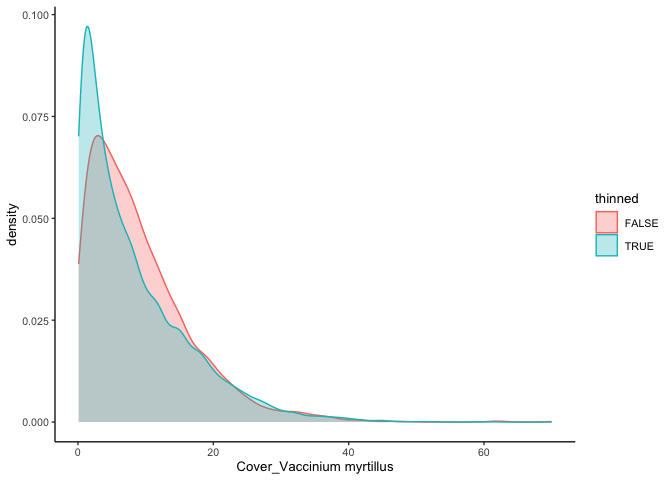
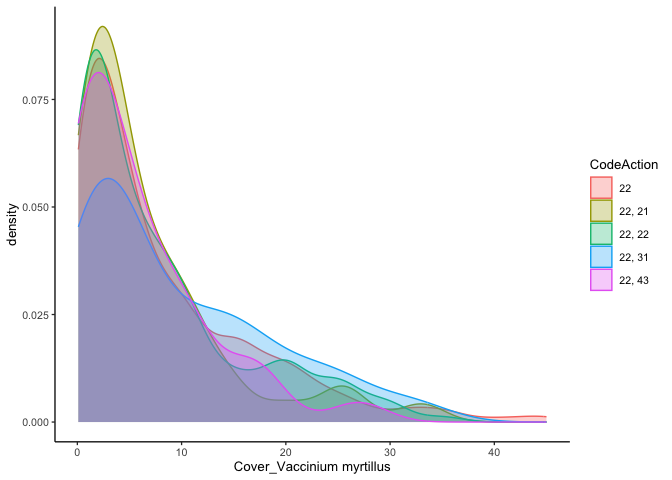
more focus on management history

diff --git a/code/exploration/2023-05-16_find-treatment-groups.md b/code/exploration/2023-05-16_find-treatment-groups.md
@@ -1,7 +1,7 @@
 Find treatment groups
 ================
 eleanorjackson
-16 May, 2023
+17 May, 2023
 
 We need to identify treatment and control groups from the Swedish NFI
 data. For example, thinned vs non-thinned stands. Ideally identify
@@ -55,8 +55,8 @@ plot_data %>%
     ## 13    103      28
     ## 14    303      28
 
-Ok, there are 29 or 28 entries per PlotNr so that can’t be a unique plot
-ID, let’s try `ID`
+Ok, there are 29 or 28 entries per `PlotNr` so that can’t be a unique
+plot ID, let’s try `ID`
 
 ``` r
 plot_data %>% 
@@ -78,7 +78,7 @@ plot_data %>%
     ## 10 8.32e16       3
     ## # ℹ 2,926 more rows
 
-Yep, that looks better. 3 years per ID. Maybe we could use years to
+Yep, that looks better. 3 years per `ID`. Maybe we could use years to
 split the data up into test and train.
 
 Let’s check that we only have 1 year for each of the `uniqueID` values.
@@ -105,7 +105,7 @@ plot_data %>%
 
 Sweet, all good!
 
-## Only look at similar plots
+## Compare plots with similar management histories
 
 We want our control and treatment groups to be as similar as possible
 except in what the treatment actually is. I might just go really broad
@@ -118,85 +118,206 @@ International land use classes:
 2.  Other wooded land
 3.  Bare impediment
 
-We know we want permanent plots rather than temporary ones so we have
-multiple years of data - lets filter for that too.
+For snapshot sampling we can use the first year from the permanent plots
+and all of the temporary plots (which are only sampled once). Lets
+filter for that too.
 
 ``` r
-# filter data for only land class 1 and permanent plots
-
+# filter data for only land class 1 and 1st year of data
 plot_data %>% 
-  summarise(n_years = n_distinct(Year), .by = "ID") %>% 
-  filter(n_years == 3) -> permanent_plots
-
-plot_data %>% 
-  filter(InternationalCodeLandUse == 1 & ID %in% permanent_plots$ID) %>% 
+  filter(InternationalCodeLandUse == 1) %>% 
+  group_by(ID) %>% 
+  slice_min(Year) %>%
+  ungroup() %>% 
   rename(UniqueID = uniqueID) -> filtered_plots
 ```
 
-``` r
-# join with management data
+We need to find plots with similar management histories. Let’s bring in
+the management data.
 
+``` r
+# filter management data for only 1st survey year
+# and join to plot data by the plot x yr variable
 management_data %>% 
+  group_by(ID) %>% 
+  slice_min(Year) %>%
+  ungroup() %>%
   mutate(UniqueID = gsub("}", "", UniqueID)) %>% 
-  mutate(UniqueID = gsub("\\{", "", UniqueID), fixed = TRUE) %>% 
-  inner_join(filtered_plots) -> plt_man_data
+  mutate(UniqueID = gsub("\\{", "", UniqueID)) %>% 
+  left_join(filtered_plots) -> plt_man_data
 ```
 
     ## Joining with `by = join_by(UniqueID, ID, Year, Trakt)`
 
-## Thinning
+Ok, so the `TimeAction` variable gives us information about when the
+management action happened. It’s in an awkward format so let’s fix that.
 
-All management actions performed within the last 25 years are
-registered.
+``` r
+plt_man_data %>% 
+  mutate(TimeAction = str_remove(TimeAction, "\xc5r/s\xe4song ")) %>%
+  mutate(MedYrAgo = case_when(TimeAction == "0" ~ 0,
+                              TimeAction == "1" ~ 1,
+                              TimeAction == "2" ~ 2,
+                              TimeAction == "3-5" ~ 4,
+                              TimeAction == "6-10" ~ 8,
+                              TimeAction == "11-25" ~ 18,
+                              TimeAction == "26+" ~ 26)) -> man_data_time
+```
+
+There might be common patterns of management, e.g. they might often do
+some sapling clearing in the first year followed by thinning in the 10th
+year.
+
+If we order the actions by when they happened for each plot (using the
+`MedYrAgo` variable we created above), and concatenate into one column
+we can look for common patterns.
+
+``` r
+man_data_time %>% 
+  group_by(ID) %>% 
+  arrange(MedYrAgo, .by_group = TRUE) %>%
+  summarise(CodeAction = str_c(CodeAction, collapse = ", "), 
+            .groups = "drop") ->  man_hists
+
+man_hists %>%   
+  summarise(n = n(), .by = CodeAction) %>% 
+  arrange(-n) 
+```
+
+    ## # A tibble: 1,065 × 2
+    ##    CodeAction     n
+    ##    <chr>      <int>
+    ##  1 22           325
+    ##  2 <NA>         271
+    ##  3 43           180
+    ##  4 31           164
+    ##  5 21           126
+    ##  6 22, 22        78
+    ##  7 11            76
+    ##  8 33            44
+    ##  9 31, 22        36
+    ## 10 43, 22        33
+    ## # ℹ 1,055 more rows
+
+We’re looking for plots with a similar history but differences in their
+more recent management. 22 seems quite common and I can see some
+patterns of 22 followed by: 22 again (78 plots), 43 (24 plots), 21 (21
+plots) and 31 (20 plots). 31 and 43 could be good candidates too.
+
+``` r
+filtered_plots %>% 
+  inner_join(man_hists) %>% 
+  filter(grepl("^22", CodeAction)) %>% 
+  filter(CodeAction == "22" |
+           CodeAction == "22, 22" |
+           CodeAction == "22, 43" |
+           CodeAction == "22, 21" |
+           CodeAction == "22, 31") %>% 
+  ggplot(aes(x = `Cover_Vaccinium myrtillus`, colour = CodeAction, fill = CodeAction)) +
+  geom_density(alpha = 0.3)
+```
+
+    ## Joining with `by = join_by(ID)`
+
+    ## Warning: Removed 124 rows containing non-finite values (`stat_density()`).
+
+![](figures/2023-05-16_find-treatment-groups/unnamed-chunk-9-1.png)<!-- -->
+
+Let’s make a plotting function and try this out for a few different
+variables.
+
+``` r
+plot_man_hist <- function(data, plot_var) {
+  data %>% 
+  filter(grepl("^22", CodeAction)) %>% 
+  filter(CodeAction == "22" |
+           CodeAction == "22, 22" |
+           CodeAction == "22, 43" |
+           CodeAction == "22, 21" |
+           CodeAction == "22, 31") -> filtered_dat 
+  ggplot(filtered_dat, aes(x = .data[[plot_var]], colour = CodeAction, fill = CodeAction)) +
+  geom_density(alpha = 0.3)
+}
+
+filtered_plots %>% 
+  inner_join(man_hists) -> plots_hist_data
+```
+
+    ## Joining with `by = join_by(ID)`
+
+``` r
+var_list <- list("StandAge", "CanopyCover", "PineVol", "LarchVol")
+
+plot_list <- lapply(var_list, plot_man_hist, data = plots_hist_data)
+
+patchwork::wrap_plots(plot_list)
+```
+
+    ## Warning: Removed 847 rows containing non-finite values (`stat_density()`).
+
+    ## Warning: Groups with fewer than two data points have been dropped.
+
+    ## Warning in max(ids, na.rm = TRUE): no non-missing arguments to max; returning
+    ## -Inf
+
+![](figures/2023-05-16_find-treatment-groups/unnamed-chunk-10-1.png)<!-- -->
+
+## Compare 22 (“other thinning”) to non-thinned plots
 
 Let’s try to group plots into thinned and non-thinned.
 
 ``` r
-as.list(20:23) -> thinning
-as.list(10:13) -> felling
-as.list(30:33) -> cleaning
-as.list(40, 43:46) -> fell_other
+paste0(c(20:23, 10:13, 30:33, 40, 43:46)) %>% 
+  str_c(collapse = "|") -> all_thin
 
-as.list(20:23, 10:13, 30:33, 40, 43:46) -> all_thin
+# get list of plots that have the 22 management action and no others
+man_hists %>% 
+  filter(CodeAction == "22") %>%  
+  pull(ID) -> plots_22
 ```
 
 If thinning is recorded for a plot at any time point I’m classing it as
 thinned.
 
 ``` r
-plt_man_data %>% 
-  group_by(ID, CodeAction) %>% 
-  summarise(.groups = "drop") %>% 
-  filter(CodeAction %in% all_thin) -> thin_plots
+filtered_plots %>% 
+  filter(ID %in% plots_22) -> thin_plots_22
 
-
-plt_man_data %>% 
-  group_by(ID, CodeAction) %>% 
-  summarise(.groups = "drop") %>% 
-  filter(!CodeAction %in% all_thin) -> no_thin_plots
+man_hists %>% 
+  filter(
+      str_detect(CodeAction, all_thin, negate = TRUE)
+  ) -> no_thin_plots
   
-plt_man_data %>% 
+filtered_plots %>% 
   mutate(thinned = case_when(
-    ID %in% thin_plots$ID ~ TRUE,
+    ID %in% plots_22 ~ TRUE,
     ID %in% no_thin_plots$ID ~ FALSE,
-    .default = NA)) -> thin_no_thin
+    .default = NA)) %>% 
+  drop_na(thinned) -> thin_no_thin
 ```
 
-There are 1752 thinned plots and 2205 plots which have not been thinned.
+I’m assuming that NAs mean we don’t have management data for these plots
+rather than not having any management happen to them. I think that’s
+right… Have dropped them here but it takes nrows down from 6,730 to 587.
+That’s a lot of missing data!?
 
-Plot to compare Vaccinium myrtillus cover in plots with and without
-thinning across all years.
+There are 290 thinned plots (action 22 only) and 50 plots which have not
+been thinned at all.
+
+Compare a few variables in plots with and without thinning.
 
 ``` r
-thin_no_thin %>% 
-  distinct(ID, Year, `Cover_Vaccinium myrtillus`, thinned) %>% 
-  ggplot(aes(x = `Cover_Vaccinium myrtillus`, colour = thinned, fill = thinned)) +
+plot_man_thin <- function(data, plot_var) {
+  thin_no_thin %>% 
+  ggplot(aes(x = .data[[plot_var]], colour = thinned, fill = thinned)) +
   geom_density(alpha = 0.3)
+}
+
+plot_list <- lapply(var_list, plot_man_thin, data = thin_no_thin)
+
+patchwork::wrap_plots(plot_list)
 ```
 
-    ## Warning: Removed 1347 rows containing non-finite values (`stat_density()`).
+    ## Warning: Removed 566 rows containing non-finite values (`stat_density()`).
 
-![](figures/2023-05-16_find-treatment-groups/unnamed-chunk-9-1.png)<!-- -->
-
-Cover of Vaccinium myrtillus is similar in thinned and non thinned
-plots, maybe the median a bit higher in non-thinned?
+![](figures/2023-05-16_find-treatment-groups/unnamed-chunk-13-1.png)<!-- -->
